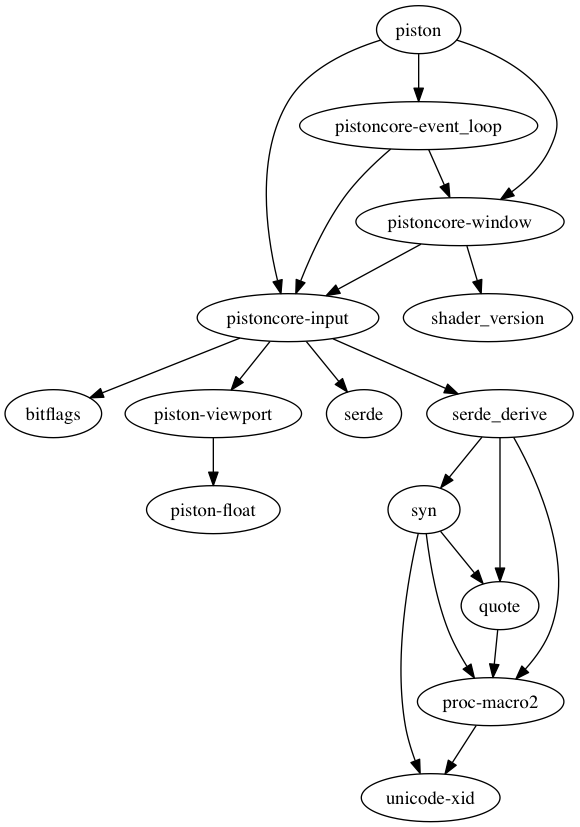
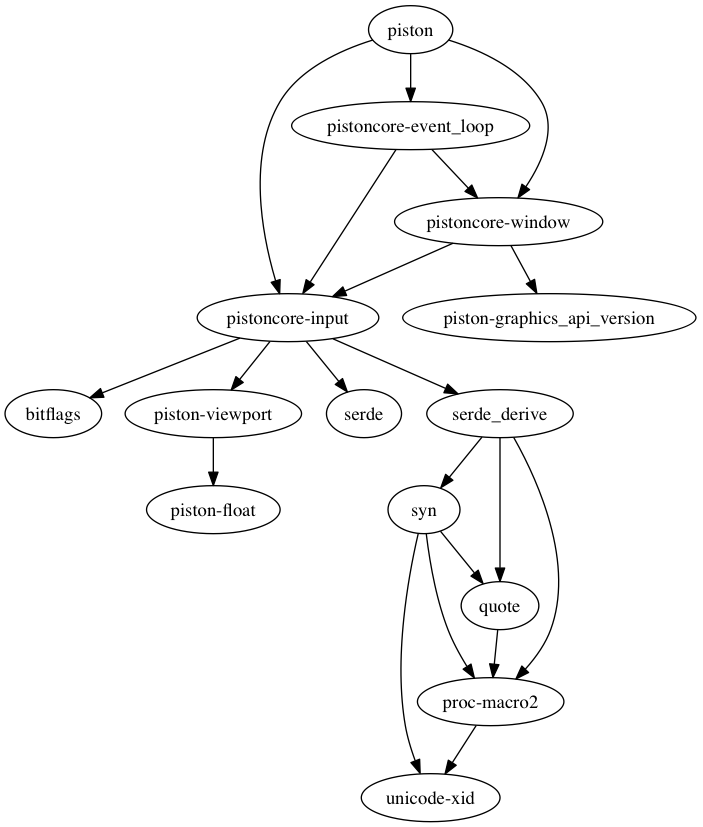
Publish 0.44
- Use new graphics API library
- Removed shader_version dependency
- Updated dependency graph

diff --git a/src/window/src/lib.rs b/src/window/src/lib.rs
@@ -22,13 +22,13 @@
 //! The [`Size`](./struct.Size.html) structure is used throughout Piston to store window sizes.
 //! It implements some conversion traits for convenience.
 
-extern crate shader_version;
+extern crate graphics_api_version;
 extern crate input;
 
 use std::convert::From;
 use std::time::Duration;
 use std::error::Error;
-use shader_version::OpenGL;
+use graphics_api_version::Version;
 use input::Input;
 
 pub use no_window::NoWindow;
@@ -410,7 +410,7 @@ pub struct WindowSettings {
     exit_on_esc: bool,
     automatic_close: bool,
     vsync: bool,
-    opengl: Option<OpenGL>,
+    graphics_api: Option<Version>,
     srgb: bool,
     resizable: bool,
     decorated: bool,
@@ -437,7 +437,7 @@ impl WindowSettings {
             exit_on_esc: false,
             automatic_close: true,
             vsync: false,
-            opengl: None,
+            graphics_api: None,
             srgb: true,
             resizable: true,
             decorated: true,
@@ -627,71 +627,56 @@ impl WindowSettings {
         self
     }
 
-    /// Gets the OpenGL version of built windows.
+    /// Gets the graphics API version of built windows.
     ///
-    /// If None is returned, the default OpenGL version is being used. This
-    /// is often a forward compatible version of OpenGL::V3_2 or
+    /// If None is returned, the default graphics API version is being used. This
+    /// is often a forward compatible version of OpenGL 3.2 or
     /// higher that works with newer versions of graphics libraries.
-    ///
-    /// For more information about the OpenGL setting, see the
-    /// [`OpenGLWindow`](trait.OpenGLWindow.html) trait.
-    pub fn get_maybe_opengl(&self) -> Option<OpenGL> {
-        self.opengl
+    pub fn get_maybe_graphics_api(&self) -> Option<Version> {
+        self.graphics_api.clone()
     }
 
-    /// Sets OpenGL version of built windows.
+    /// Sets graphics API version of built windows.
     ///
-    /// If None is passed, the default OpenGL version is used. This
-    /// is often a forward compatible version of OpenGL::V3_2 or
+    /// If None is passed, the default graphics API version is used. This
+    /// is often a forward compatible version of OpenGL 3.2 or
     /// higher that works with newer versions of graphics libraries.
-    ///
-    /// For more information about the OpenGL setting, see the
-    /// [`OpenGLWindow`](trait.OpenGLWindow.html) trait.
-    pub fn set_maybe_opengl(&mut self, value: Option<OpenGL>) {
-        self.opengl = value;
+    pub fn set_maybe_graphics_api<V: Into<Version>>(&mut self, value: Option<V>) {
+        self.graphics_api = value.map(|v| v.into());
     }
 
-    /// Sets OpenGL version of built windows.
+    /// Sets graphics API version of built windows.
     ///
-    /// If None is passed, the default OpenGL version is used. This
-    /// is often a forward compatible version of OpenGL::V3_2 or
+    /// If None is passed, the default graphics API version is used. This
+    /// is often a forward compatible version of OpenGL 3.2 or
     /// higher that works with newer versions of graphics libraries.
-    ///
-    /// For more information about the OpenGL setting, see the
-    /// [`OpenGLWindow`](./trait.OpenGLWindow.html) trait.
     ///
     /// This method moves the current window data,
-    /// unlike [`set_maybe_opengl()`](#method.set_maybe_opengl),
+    /// unlike [`set_maybe_graphics_api()`](#method.set_maybe_graphics_api),
     /// so that it can be used in method chaining.
-    pub fn maybe_opengl(mut self, value: Option<OpenGL>) -> Self {
-        self.set_maybe_opengl(value);
+    pub fn maybe_graphics_api<V: Into<Version>>(mut self, value: Option<V>) -> Self {
+        self.set_maybe_graphics_api(value.map(|v| v.into()));
         self
     }
 
-    /// Sets OpenGL version of built windows.
+    /// Sets graphics API version of built windows.
     ///
-    /// For setting the OpenGL version back to default, see
-    /// [`set_maybe_opengl()`](#method.set_maybe_opengl).
-    ///
-    /// For more information about the opengl setting, see the
-    /// [`OpenGLWindow`](./trait.OpenGLWindow.html) trait.
-    pub fn set_opengl(&mut self, value: OpenGL) {
-        self.opengl = Some(value);
+    /// For setting the graphics API version back to default, see
+    /// [`set_maybe_graphics_api()`](#method.set_maybe_graphics_api).
+    pub fn set_graphics_api<V: Into<Version>>(&mut self, value: V) {
+        self.graphics_api = Some(value.into());
     }
 
-    /// Sets the OpenGL version of built windows.
+    /// Sets the graphics API version of built windows.
     ///
-    /// For setting the OpenGL version back to default, see
-    /// [`maybe_opengl()`](#method.maybe_opengl).
-    ///
-    /// For more information about the opengl setting, see the
-    /// [`OpenGLWindow`](./trait.OpenGLWindow.html) trait.
+    /// For setting the graphics API version back to default, see
+    /// [`maybe_graphics_api()`](#method.maybe_graphics_api).
     ///
     /// This method moves the current window data,
-    /// unlike [`set_opengl()`](#method.set_opengl),
+    /// unlike [`set_graphics_api()`](#method.set_graphics_api),
     /// so that it can be used in method chaining.
-    pub fn opengl(mut self, value: OpenGL) -> Self {
-        self.set_opengl(value);
+    pub fn graphics_api<V: Into<Version>>(mut self, value: V) -> Self {
+        self.set_graphics_api(value);
         self
     }
 
